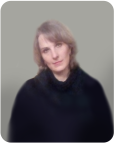
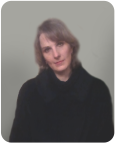
#5 updated contacts

diff --git a/contacts.html b/contacts.html
@@ -78,6 +78,27 @@
                         <div class="content__left-side">
                             <div class="text-block-wrapper align-right">
                                     <span class="upper color-b">
+                                        Начальник<br/>
+                                        производства
+                                    </span>
+                            </div>
+                        </div>
+                        <div class="content__right-side">
+                            <div class="contact-item-wrapper">
+                                <div class="contact-item color-g image-contact-3">
+                                    <span class="size-18 upper">Гайгальник</span><br/>
+                                    Эдуард<br/>
+                                    Арвидович
+                                </div>
+                            </div>
+                        </div>
+                    </div>
+                </div>
+                <div class="contact-wrapper">
+                    <div class="columns45-55">
+                        <div class="content__left-side">
+                            <div class="text-block-wrapper align-right">
+                                    <span class="upper color-b">
                                         Главный<br/>
                                         бухгалтер
                                     </span>
@@ -85,7 +106,7 @@
                         </div>
                         <div class="content__right-side">
                             <div class="contact-item-wrapper">
-                                <div class="contact-item color-g image-contact-3">
+                                <div class="contact-item color-g image-contact-4">
                                     <span class="size-18 upper">Басова</span><br/>
                                     Ольга<br/>
                                     Валентиновна
@@ -108,17 +129,18 @@
                     </div>
                     <div class="text-block-wrapper align-right">
                         <span class="color-b upper">Адрес юридический</span><br/>
-                        195027, Санкт-Петербург, ул. Якорная, д. 15, корп. 2, лит. А, пом. 5Н № 11
+                        195027, Санкт-Петербург, ул. Якорная,<br/>
+                        д. 15, корп. 2, лит. А, пом. 5Н № 11
                     </div>
                     <div class="text-block-wrapper align-right">
                         <span class="color-b upper">Адрес почтовый</span><br/>
-                        196626, Санкт-Петербург, а/я 000
+                        196626 Санкт-Петербург, п. Шушары, а/я 18
                     </div>
                 </div>
                 <div class="content__right-side pt-sans size-14">
                     <a href="no-document.html" class="document-link color-g"><span>Сертификат<span class="color-b">.doc</span></span></a>
 
-                    <div class="space-eater-92"></div>
+                    <div class="space-eater-36"></div>
 
                     <div class="text-block-wrapper">
                         <span class="color-b upper">Банковские реквизиты</span><br/>

diff --git a/index.html b/index.html
@@ -33,7 +33,7 @@
                 <div class="content__left-side">
                     <div class="text-block-wrapper align-right">
                         <div class="upper">
-                            <span class="color-b">Автопогрузчики</span><br>
+                            <span class="color-b">Автопогрузчики</span><br/>
                             Wille<br/>
                             LM Trak<br/>
                             Mustang
@@ -41,7 +41,7 @@
                     </div>
                     <div class="text-block-wrapper align-right">
                         <div class="upper">
-                            <span class="color-b">Уборочные машины</span><br>
+                            <span class="color-b">Уборочные машины</span><br/>
                             Holder<br/>
                             Multicar<br/>
                             Ausa
@@ -49,7 +49,7 @@
                     </div>
                     <div class="text-block-wrapper align-right">
                         <div class="upper">
-                            <span class="color-b">Подборщики смёта</span><br>
+                            <span class="color-b">Подборщики смёта</span><br/>
                             Broddway<br/>
                             Brodd<br/>
                             ОПУС<br/>
@@ -58,7 +58,7 @@
                     </div>
                     <div class="text-block-wrapper align-right">
                         <div class="upper">
-                            <span class="color-b">Дорожные пылесосы</span><br>
+                            <span class="color-b">Дорожные пылесосы</span><br/>
                             Johnson<br/>
                             Schmidt<br/>
                             Scarab<br/>
@@ -69,7 +69,7 @@
                     </div>
                     <div class="text-block-wrapper align-right">
                         <div class="upper">
-                            <span class="color-b">Распределители песка/соли</span><br>
+                            <span class="color-b">Распределители<br/>песка/соли</span><br/>
                             Schmidt<br/>
                             Epoke<br/>
                             Giletta<br/>
@@ -78,13 +78,13 @@
                     </div>
                     <div class="text-block-wrapper align-right">
                         <div class="upper">
-                            <span class="color-b">Инструмент гидроприводной</span><br>
+                            <span class="color-b">Инструмент<br/>гидроприводной</span><br/>
                             Geneset
                         </div>
                     </div>
                     <div class="text-block-wrapper align-right">
                         <div class="upper">
-                            <span class="color-b">Высоконапорное поливомоечное оборудование</span>
+                            <span class="color-b">Высоконапорное<br/>поливомоечное<br/>оборудование</span>
                         </div>
                     </div>
                 </div>

diff --git a/css/styles.css b/css/styles.css
@@ -82,18 +82,6 @@ span {
     margin: 0 auto;
 }
 
-@media (min-width: 1024px) and (max-width: 1279px) {
-    .body-wrapper {
-        width: 100%;
-    }
-}
-
-@media (max-width: 1023px) {
-    .body-wrapper {
-        width: 1024px;
-    }
-}
-
 .header__logo-wrapper {
     position: relative;
     height: 145px;
@@ -233,14 +221,7 @@ span {
 }
 
 .text-block-wrapper.align-right {
-    margin-left: 40%;
     text-align: right;
-}
-
-@media (max-width: 1279px) {
-    .text-block-wrapper.align-right {
-        margin-left: 25%;
-    }
 }
 
 .assortment-item-wrapper {
@@ -375,6 +356,10 @@ span {
 }
 
 .contact-item.image-contact-3:before {
+    background-image: url("../images/Contacts_Gaygalnik.png");
+}
+
+.contact-item.image-contact-4:before {
     background-image: url("../images/Contacts_Basova.png");
 }
 
